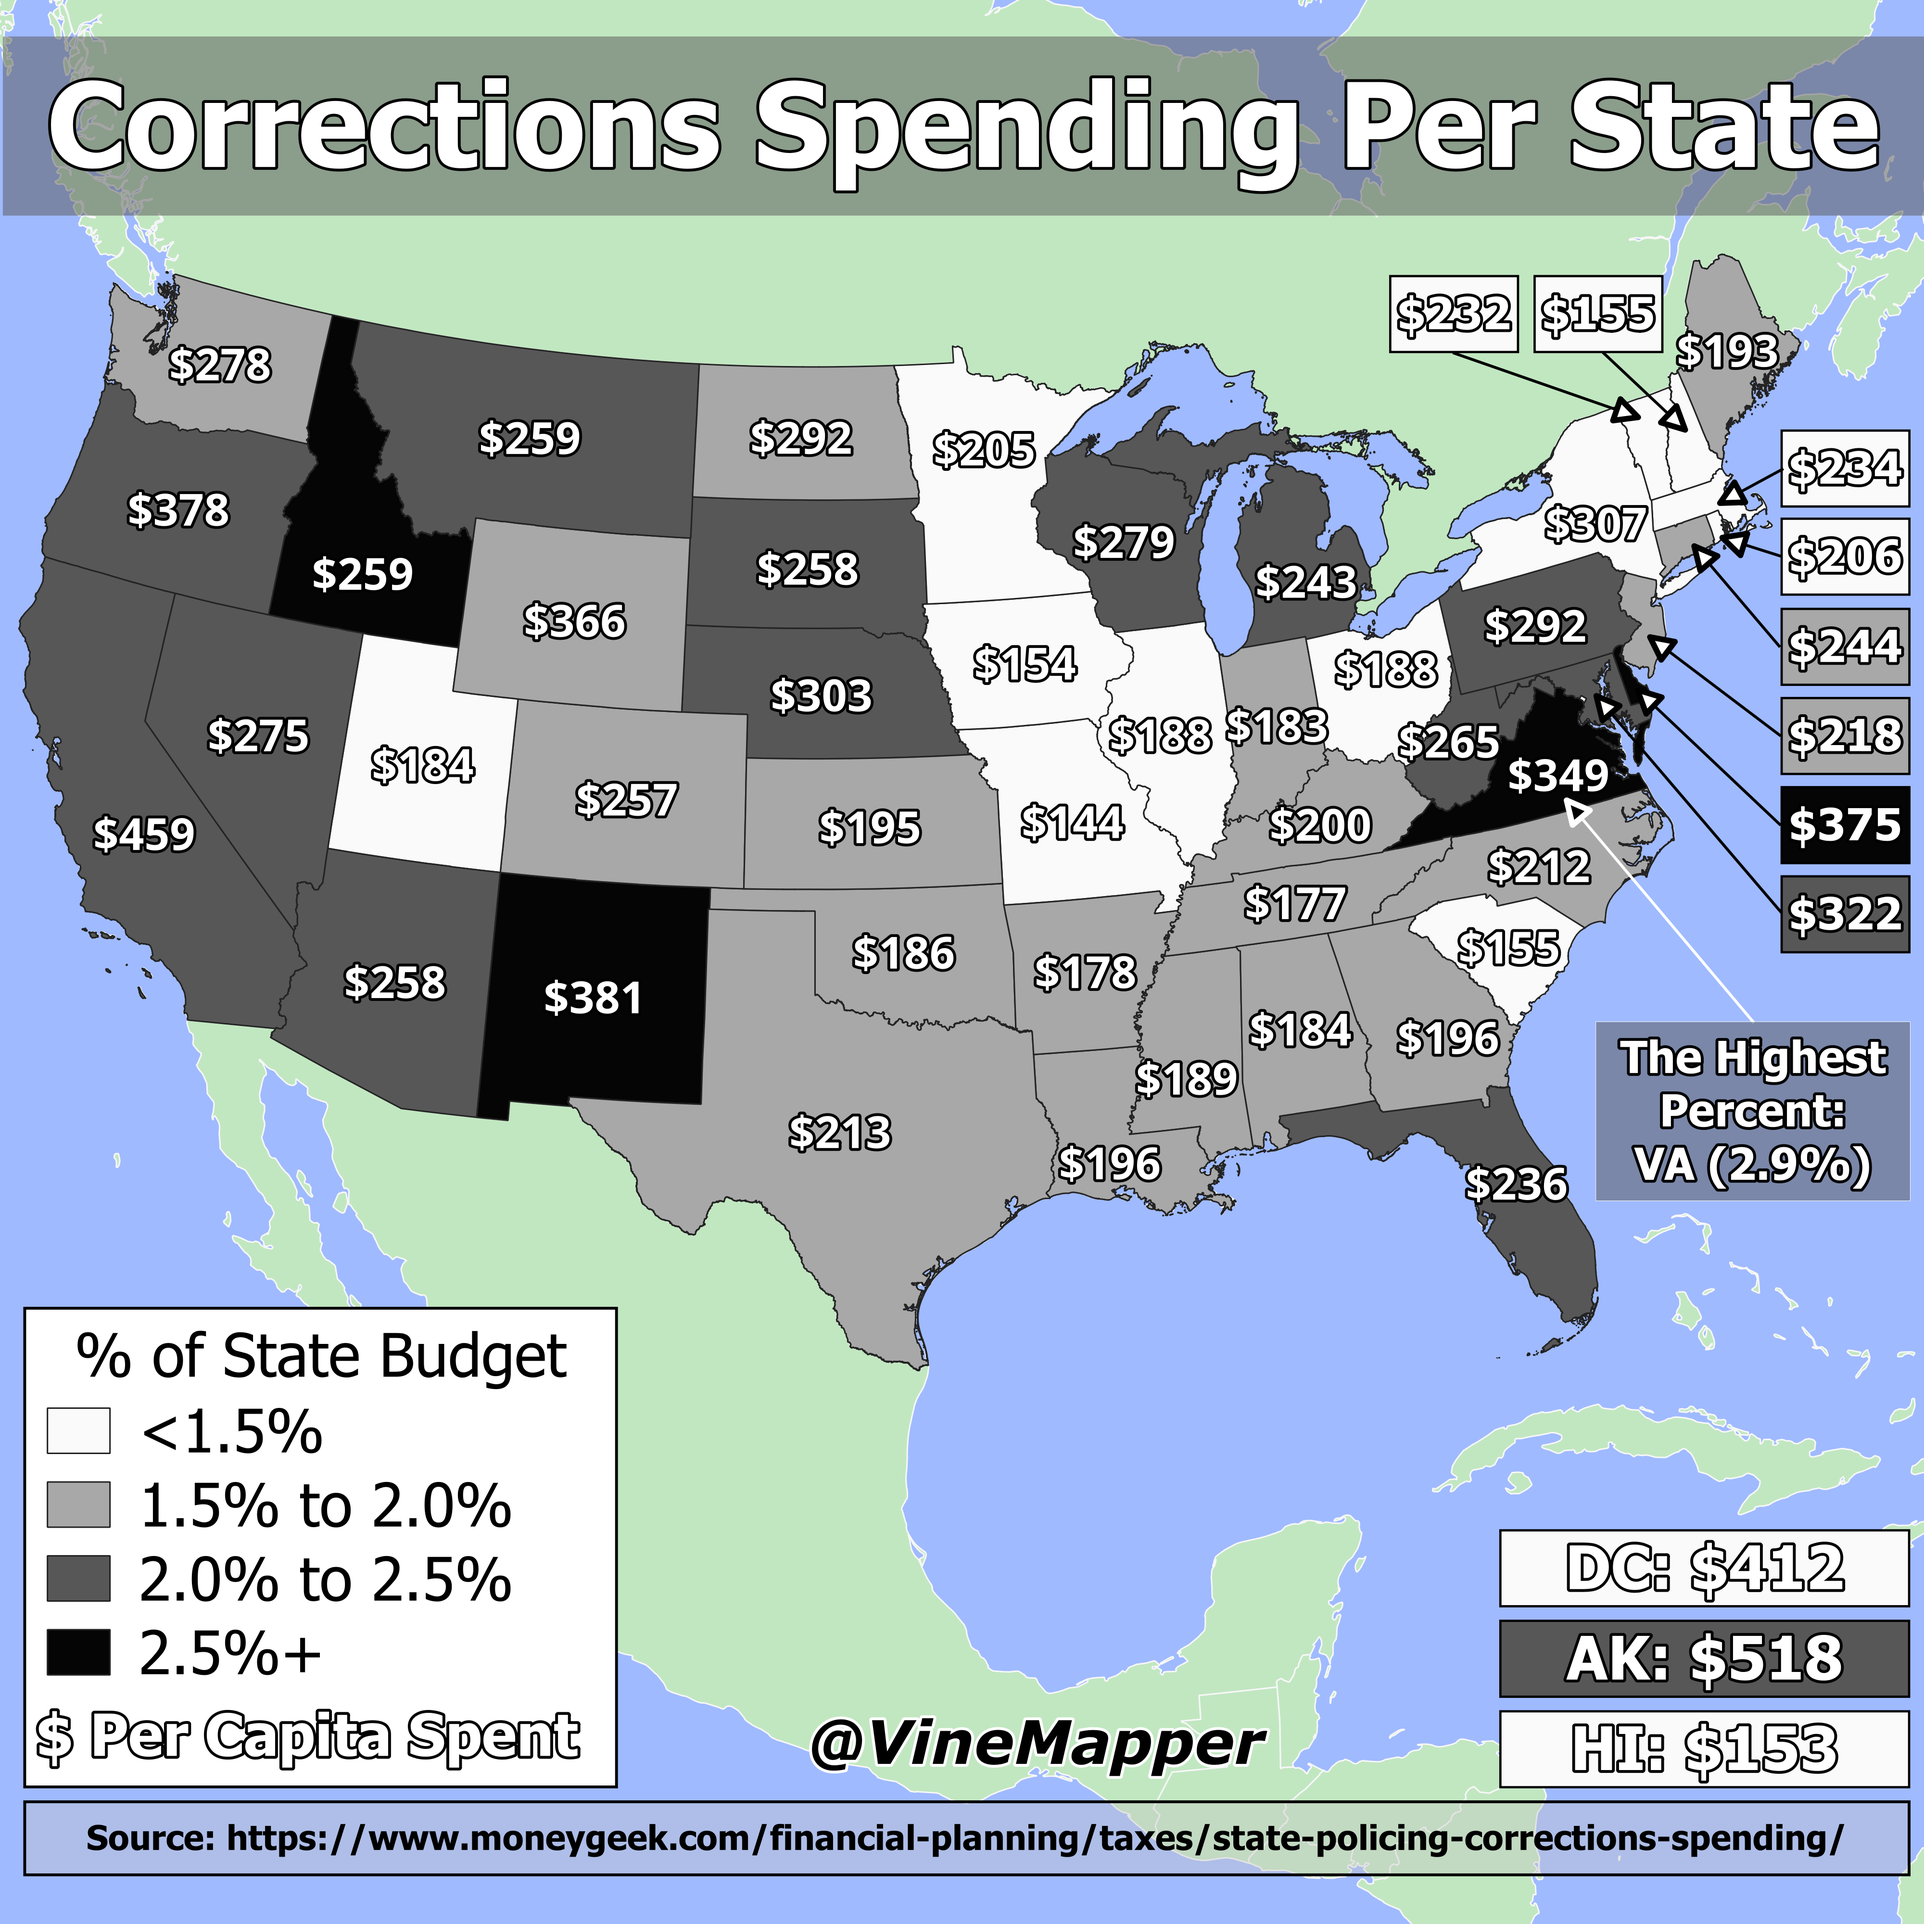
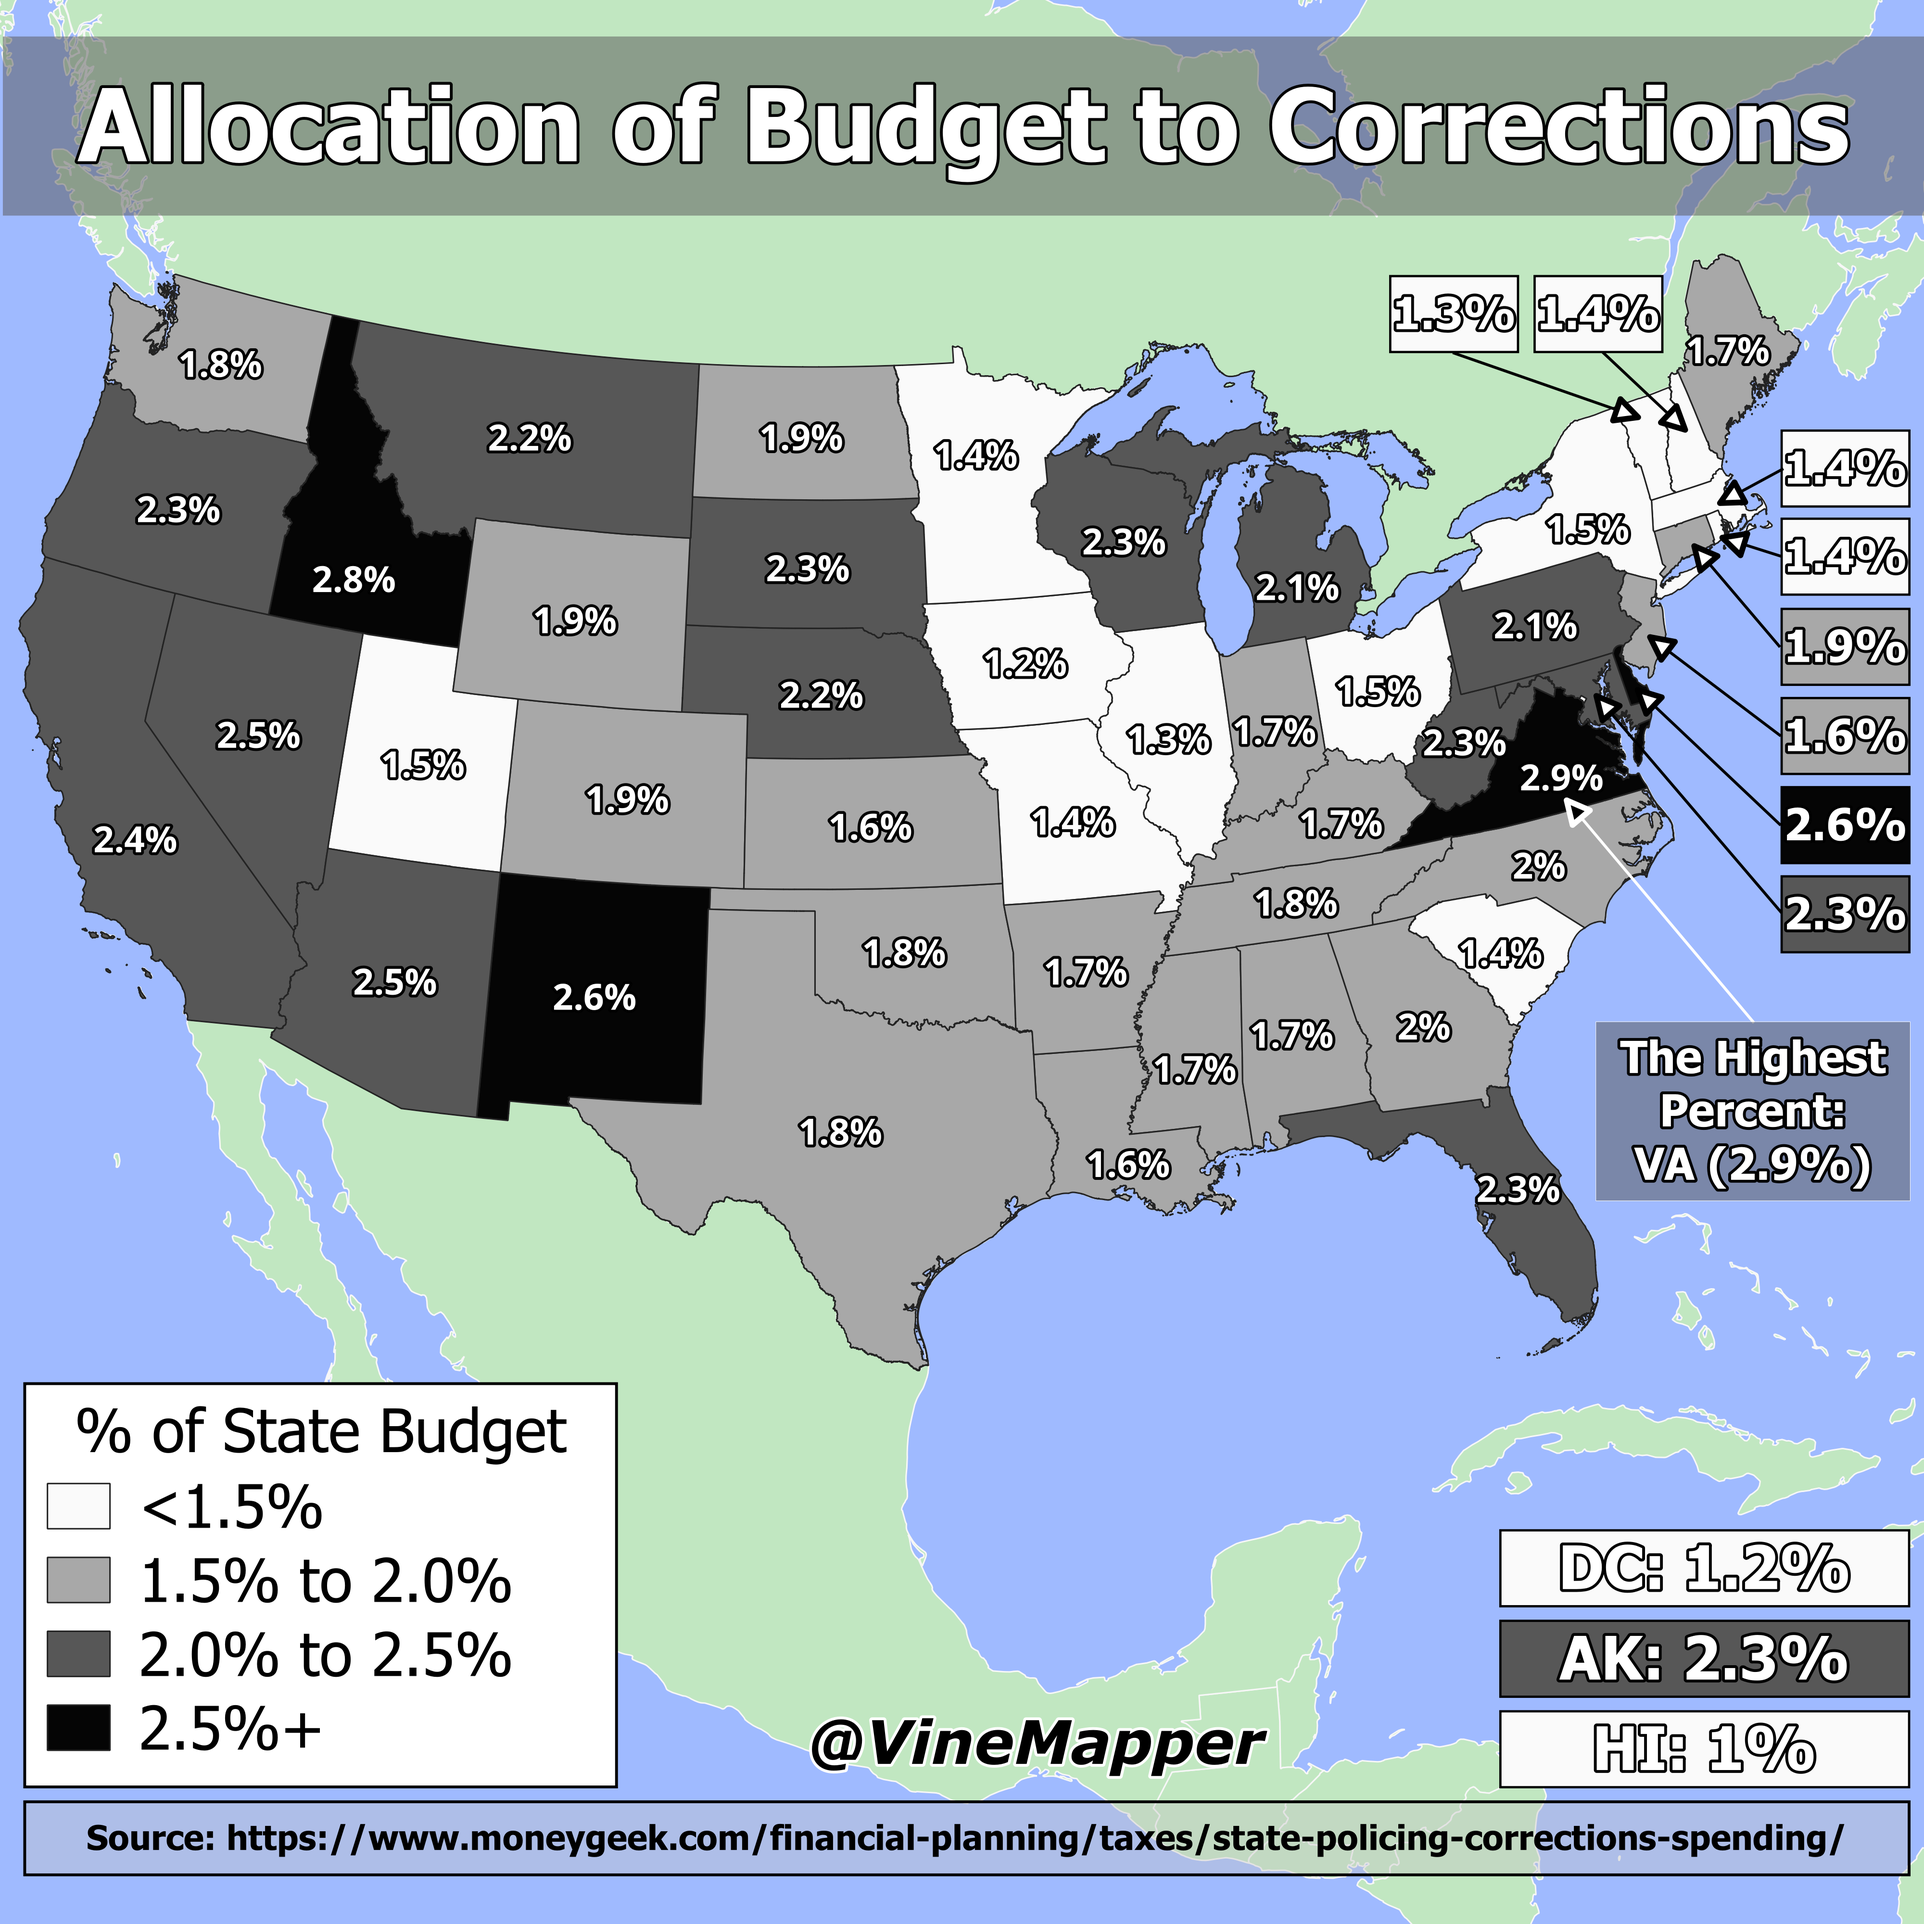
Fixed maps and added post for 1/14/2025

diff --git a/POSTS.md b/POSTS.md
@@ -46,7 +46,7 @@
 * [12/13/2024](projects/Brazilians_in_USA/) Brazilians In the USA
 * [12/14/2024](projects/TexasRoadHouse_Locations_US/) Texas Roadhouse Locations In the USA
 * [12/15/2024](projects/Progressives_Per_State_119th_Congress/) Progressives in the 119th Congress by State
-* [12/16/2024](projects/Police_Spending_Per_Capita/) Police Spending Per Capita for Each US State
+* [12/16/2024](projects/Police_Spending_Per_Capita/) Police Spending Per Capita for Each US State (Percents And $ Amounts)
 * [12/17/2024](projects/COVID_Cases_Per_State/) COVID Cases Per State
 * [12/18/2024](projects/Yugoslavs_in_USA/) Yugoslavs In the USA
 * [12/19/2024](projects/McDonalds_Per_State/) McDonald's Per State in the USA
@@ -56,7 +56,7 @@
 * [12/23/2024](projects/Soviets_in_USA/) Soviets In the USA
 * [12/24/2024](projects/US_States_GDP_Change_2023-2024/) US States GDP Change from 2023 to 2024
 * [12/25/2024](projects/US_States_GDP_Change_Per_Capita_2022-2024) US States GDP Per Capita Change from 2022 to 2024
-* [12/26/2024](projects/Corrections_Spending_Per_Capita_Inversed/) Corrections Spending Per Capita for Each US State Inversed Data from [12/11/2024](projects/Corrections_Spending_Per_Capita/)
+* [12/26/2024](projects/Corrections_Spending_Per_Capita_Inversed/) Corrections Spending Per Capita for Each US State (Percents)
 * [12/27/2024](projects/Dollar_Generals_Per_State/) Dollar Generals Per State
 * [12/28/2024](projects/McDonalds_by_County/) Does Your County Have a McDonald's?
 * [12/29/2024](projects/Turks_In_USA) Turkish People In the USA
@@ -69,7 +69,7 @@
 |:-:|:-:|:-:|:-:|:-:|:-:|:-:|
 |-|-|-|[1](projects/US_Government_Employees_By_State/)|[2](projects/Slavic_in_USA/)|[3](projects/Dollar_Generals_Per_County/)|[4](projects/Over_18_Population/)|
 |[5](projects/Preventable_COVID_Deaths/)|[6](projects/McDonalds_Per_County_Count/)|[7](projects/Progressives_Per_State_119th_Congress_Fixed/)|[8](projects/Working_Population/)|[9](projects/Dollar_Generals_Per_County_Count/)|[10](projects/Police_Spending_Per_Capita_Inversed/)|11|
-|[12](projects/Dollar_Generals_HeatMap/)|[13](projects/Over_18_Working_Population/)|14|[15](projects/Lidl_Locations_USA/)|16|[17](projects/McDonalds_Vs_KFC/)|18|
+|[12](projects/Dollar_Generals_HeatMap/)|[13](projects/Over_18_Working_Population/)|[14](projects/Corrections_Spending_Per_Capita_Values/)|[15](projects/Lidl_Locations_USA/)|16|[17](projects/McDonalds_Vs_KFC/)|18|
 |19|[20](projects/Trader_Joes_Per_State/)|21|22|[23](projects/Subways_Per_State/)|24|25|
 |[26](projects/KFCs_Per_State/)|27|28|[29](projects/McDonalds_Vs_Dollar_Generals/)|30|31|-|
 
@@ -82,11 +82,11 @@
 * [01/07/2025](projects/Progressives_Per_State_119th_Congress_Fixed/) Progressives In the 119th Congress, Fixed from [12/15/2024](projects/Progressives_Per_State_119th_Congress/)
 * [01/08/2025](projects/Working_Population/) Percentage of Working Age (16-64) Population In Each State
 * [01/09/2025](projects/Dollar_Generals_Per_County_Count/) How Many Dollar Generals Does Your County Have?
-* [01/10/2025](projects/Police_Spending_Per_Capita_Inversed/) Police Spending Per Capita for Each US State Inversed Data from [12/16/2024](projects/Police_Spending_Per_Capita/)
+* [01/10/2025](projects/Police_Spending_Per_Capita_Inversed/) Policing Spending Per Capita for Each US State ($ Amounts)
 * [01/11/2025] Unknown
 * [01/12/2025](projects/Dollar_Generals_HeatMap/) HeatMap of Dollar Generals In the USA
 * [01/13/2025](projects/Over_18_Working_Population/) Percentage of the Working Age Population Over 16
-* [01/14/2025] Unknown
+* [01/14/2025](projects/Corrections_Spending_Per_Capita_Values/) Police Spending Per Capita for Each US State ($ Amounts)
 * [01/15/2025](projects/Lidl_Locations_USA/) Lidl Locations In the USA
 * [01/16/2025] Unknown
 * [01/17/2025](projects/McDonalds_Vs_KFC/) McDonald's Vs KFC Per County

diff --git a/README.md b/README.md
@@ -45,6 +45,6 @@ January 2025
 |:-:|:-:|:-:|:-:|:-:|:-:|:-:|
 |-|-|-|[1](projects/US_Government_Employees_By_State/)|[2](projects/Slavic_in_USA/)|[3](projects/Dollar_Generals_Per_County/)|[4](projects/Over_18_Population/)|
 |[5](projects/Preventable_COVID_Deaths/)|[6](projects/McDonalds_Per_County_Count/)|[7](projects/Progressives_Per_State_119th_Congress_Fixed/)|[8](projects/Working_Population/)|[9](projects/Dollar_Generals_Per_County_Count/)|[10](projects/Police_Spending_Per_Capita_Inversed/)|11|
-|[12](projects/Dollar_Generals_HeatMap/)|[13](projects/Over_18_Working_Population/)|14|[15](projects/Lidl_Locations_USA/)|16|[17](projects/McDonalds_Vs_KFC/)|18|
+|[12](projects/Dollar_Generals_HeatMap/)|[13](projects/Over_18_Working_Population/)|[14](projects/Corrections_Spending_Per_Capita_Values/)|[15](projects/Lidl_Locations_USA/)|16|[17](projects/McDonalds_Vs_KFC/)|18|
 |19|[20](projects/Trader_Joes_Per_State/)|21|22|[23](projects/Subways_Per_State/)|24|25|
 |[26](projects/KFCs_Per_State/)|27|28|[29](projects/McDonalds_Vs_Dollar_Generals/)|30|31|-|

diff --git a/projects/Corrections_Spending_Per_Capita_Values/README.md b/projects/Corrections_Spending_Per_Capita_Values/README.md
@@ -1,13 +1,12 @@
-## Police Spending Per State ($ Amounts)
-A Simple Map showing amount per capita, only $ amounts, from [Police_Spending_Per_Capita](../Police_Spending_Per_Capita/)
-![Map](Police_Spending_Per_Capita_Inversed.png)
+## Corrections Spending Per State ($ Values)
+A Simple Map showing percent of state spending on Corrections, only $ value, from [Corrections_Spending_Per_Capita](../Corrections_Spending_Per_Capita/)
+![Map](Corrections_Spending_Per_Capita_Values.png)
 
 ## Data
-* [Police Data](https://www.moneygeek.com/financial-planning/taxes/state-policing-corrections-spending/)
+* [Corrections Data](https://www.moneygeek.com/financial-planning/taxes/state-policing-corrections-spending/)
 * [State Boundaries](https://www.census.gov/geographies/mapping-files/time-series/geo/carto-boundary-file.html)
 * [Great Lakes](https://usicecenter.gov/Products/GreatLakesData)
 * [World GeoJSON](https://public.opendatasoft.com/explore/dataset/world-administrative-boundaries/export/?flg=en-us)
-
 
 ## Code
 * [Jupyter Notebook](FormatData.ipynb)
